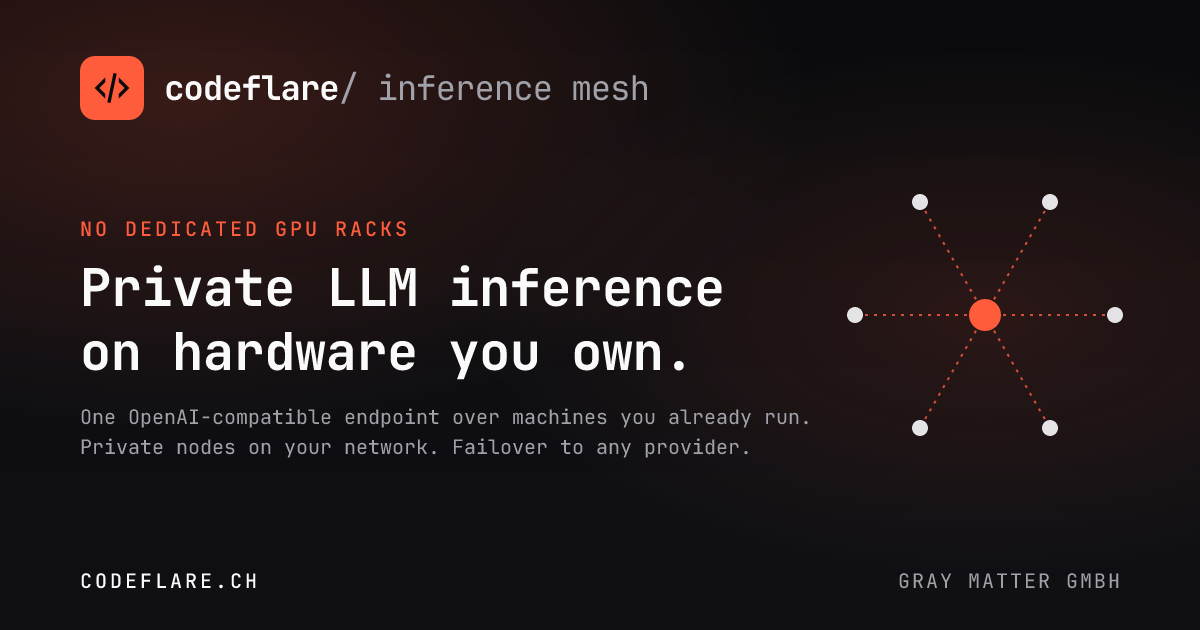
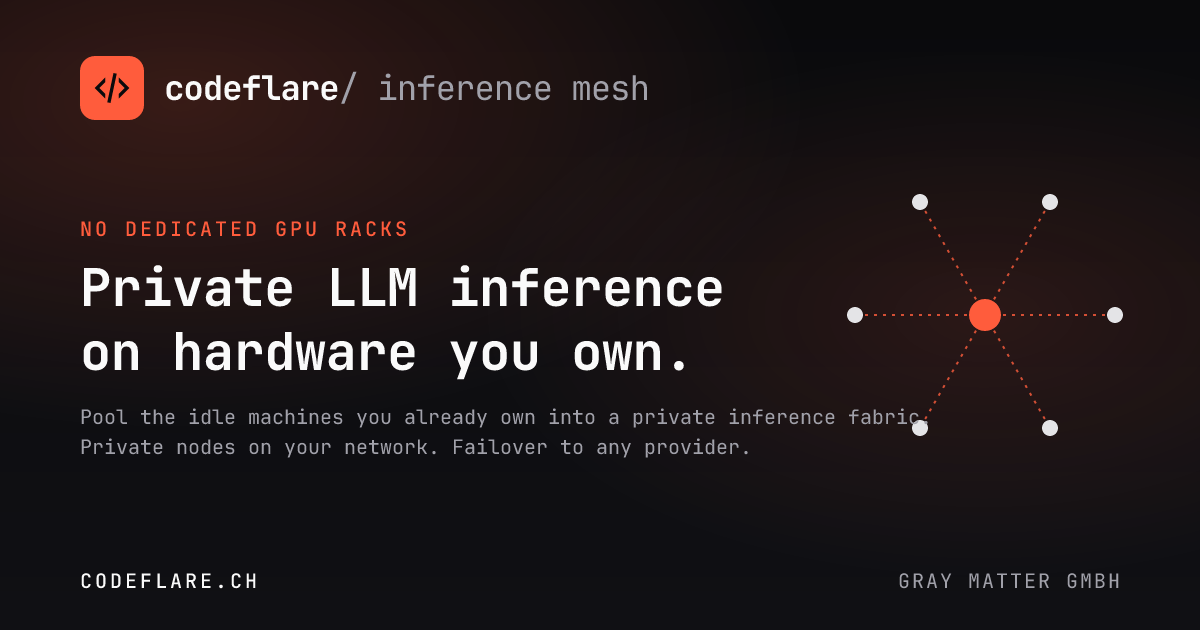
docs: align OG card with fabric messaging and link codeflare.ch
Replace the OpenAI-compatible-endpoint OG tagline with the private
inference fabric positioning and link the Codeflare family mention in the
README intro to codeflare.ch.

Changed region(s): [[0.0925, 0.6333, 0.6783, 0.6937], [0.7092, 0.6333, 0.7708, 0.6937]]

diff --git a/README.md b/README.md
@@ -12,7 +12,7 @@
 
 **Turn the idle machines you already own into a private inference fabric for open LLMs.**
 
-Codeflare Inference Mesh is the self-hosted inference layer of the **Codeflare** family, the enterprise agentic coding engine. It pools the idle GPUs and CPUs already sitting in your fleet into one private fabric and serves open models on it, sharding a model too large for any single machine across several nodes and serving it as one. It is the inference engine behind your agentic coding and operations agents, autonomous execution agents, internal chatbots, and anything else in the organization that needs inference. Powered by [mesh-llm](https://github.com/Mesh-LLM/mesh-llm) and [llama.cpp](https://github.com/ggml-org/llama.cpp).
+Codeflare Inference Mesh is the self-hosted inference layer of the **[Codeflare](https://codeflare.ch)** family, the enterprise agentic coding engine. It pools the idle GPUs and CPUs already sitting in your fleet into one private fabric and serves open models on it, sharding a model too large for any single machine across several nodes and serving it as one. It is the inference engine behind your agentic coding and operations agents, autonomous execution agents, internal chatbots, and anything else in the organization that needs inference. Powered by [mesh-llm](https://github.com/Mesh-LLM/mesh-llm) and [llama.cpp](https://github.com/ggml-org/llama.cpp).
 
 ---
 